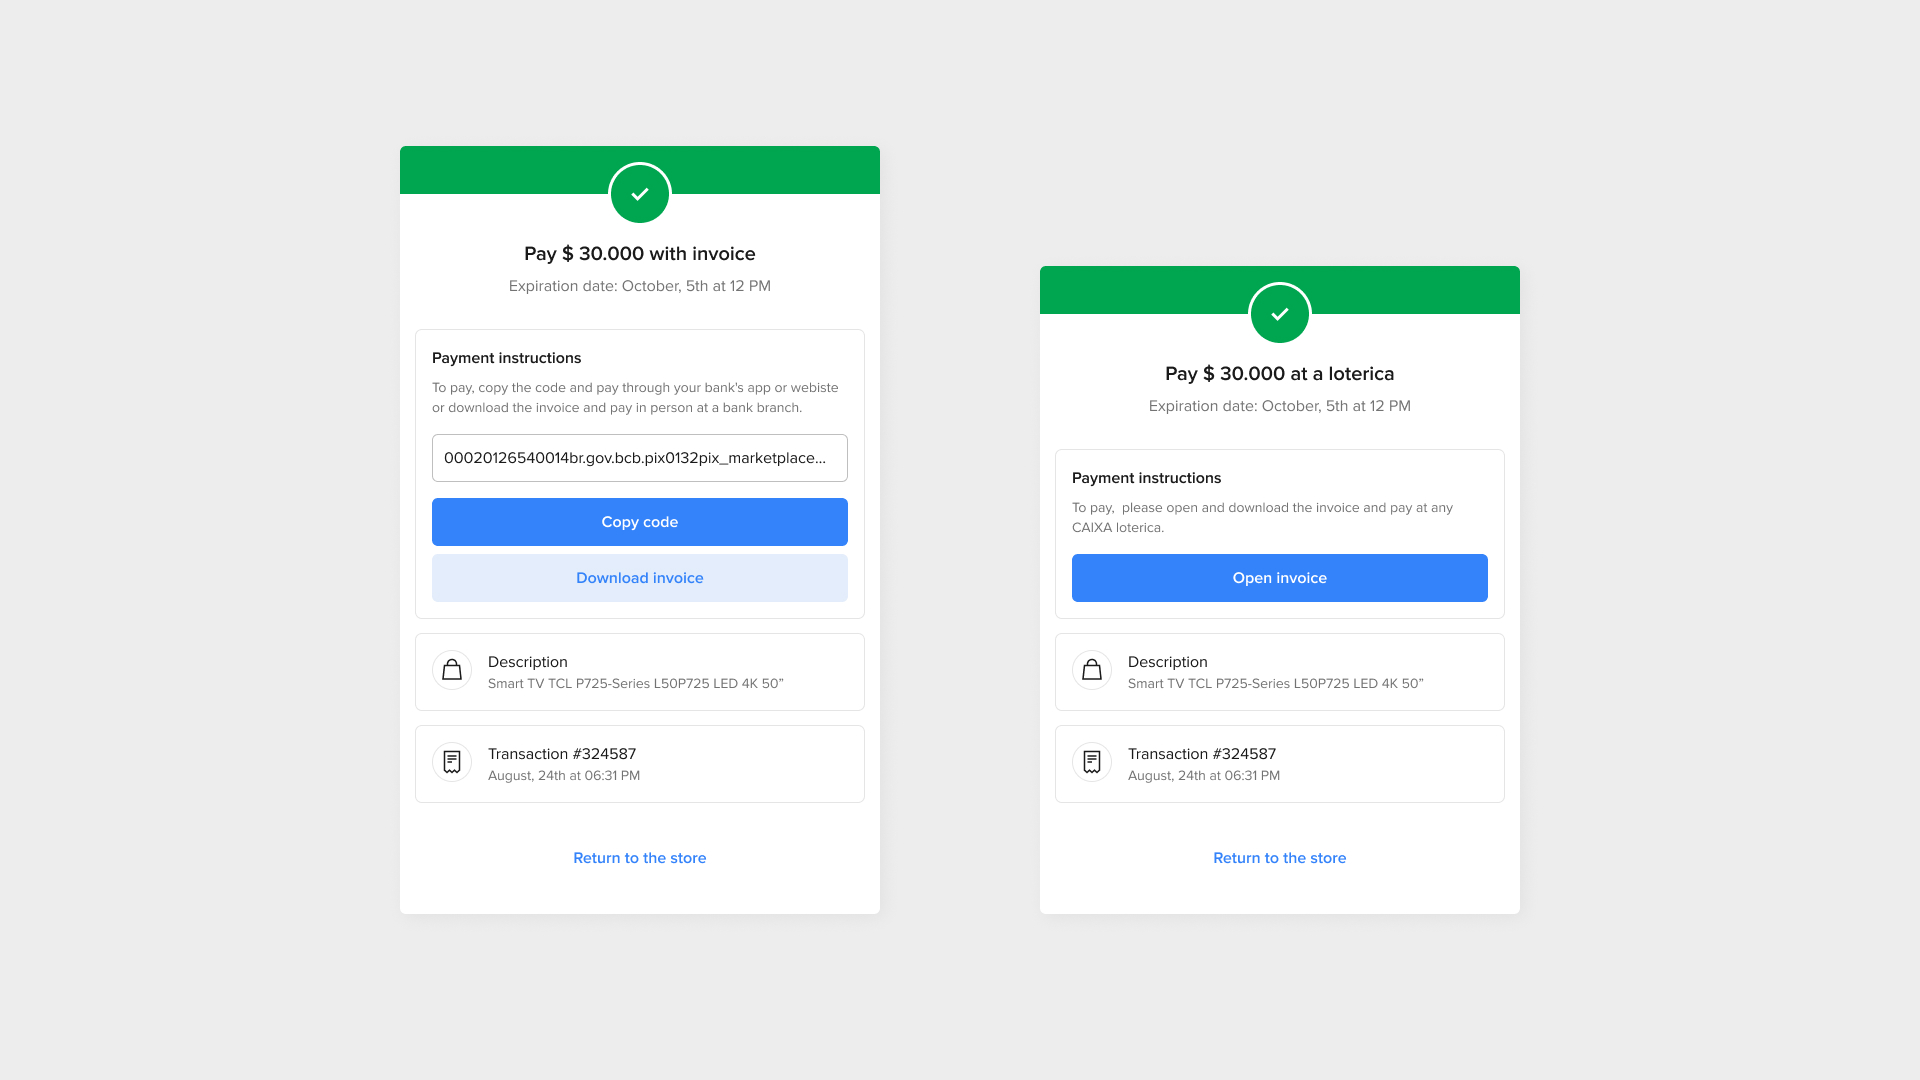
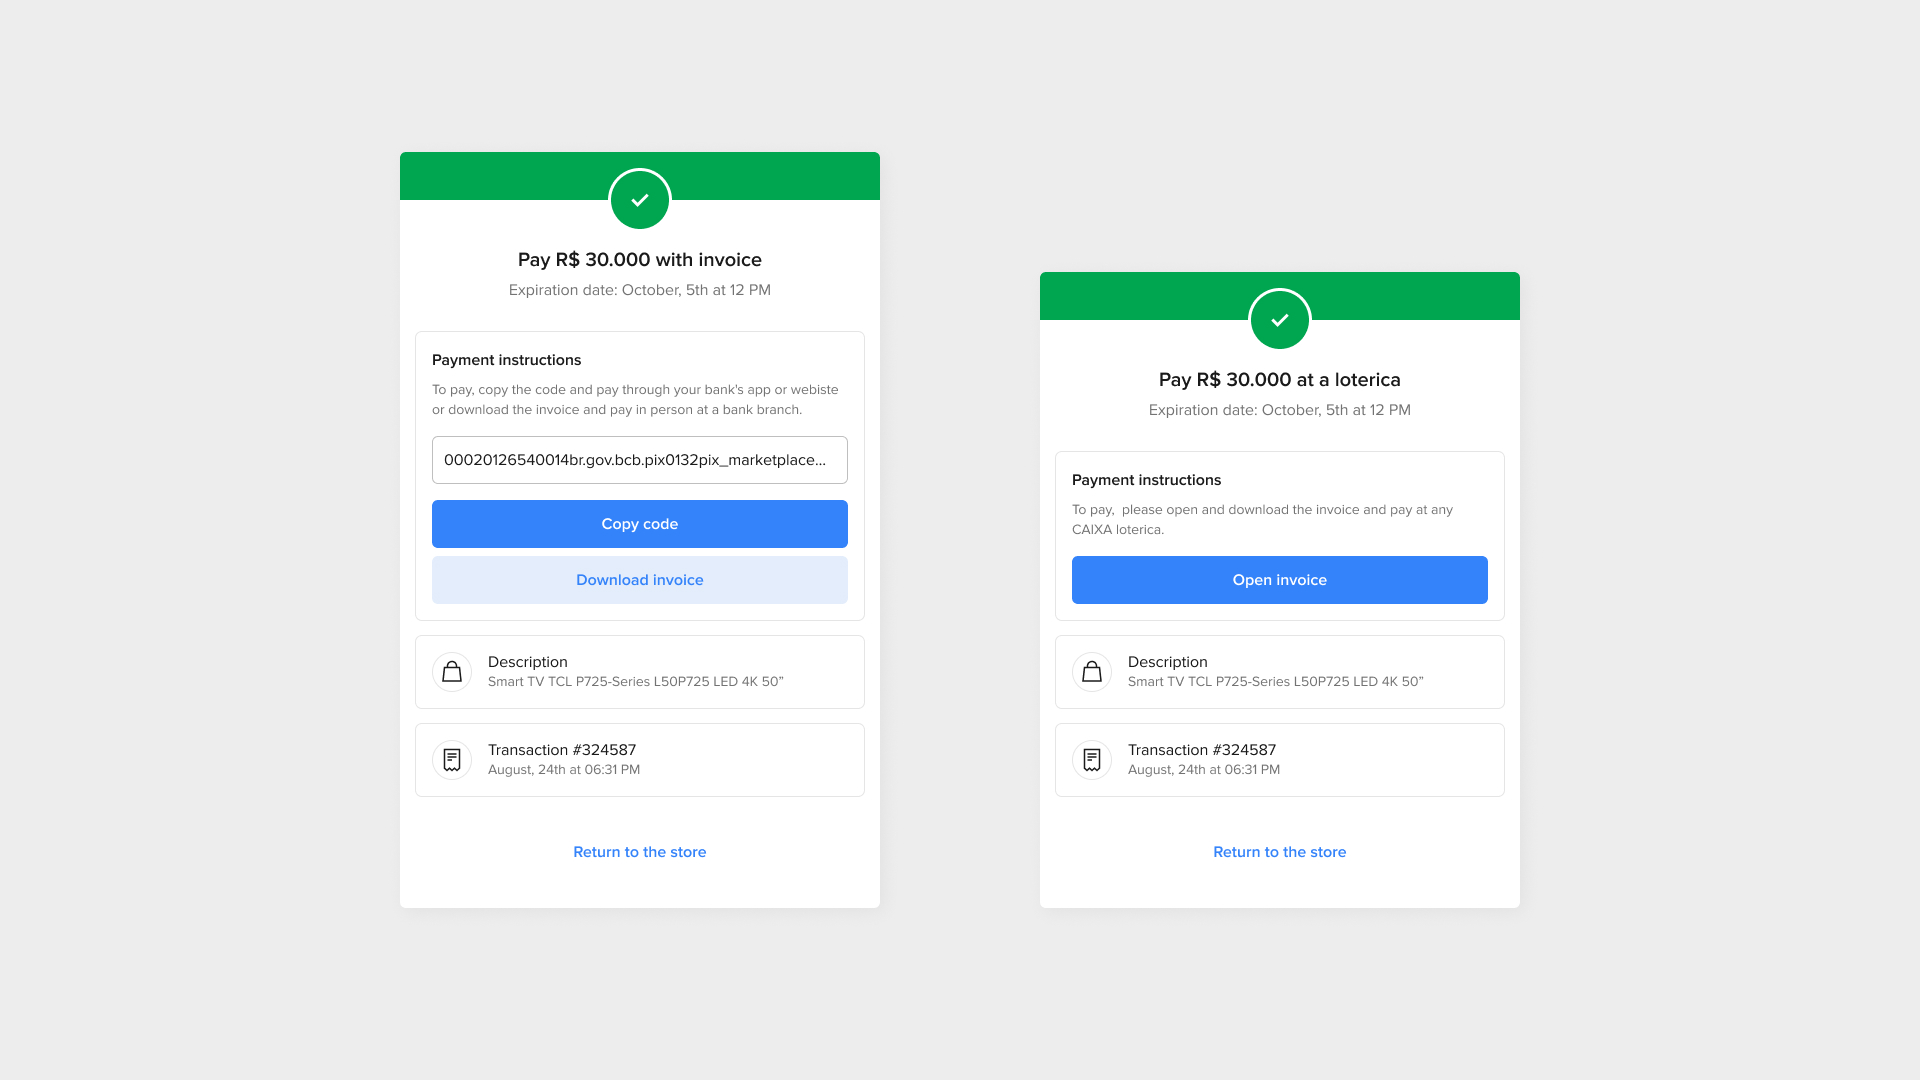
2

diff --git a/guides/checkout-bricks/payment-brick/payment-submission-other-payment-methods-mlb.en.md b/guides/checkout-bricks/payment-brick/payment-submission-other-payment-methods-mlb.en.md
@@ -273,7 +273,7 @@ After the payment creation in the backend using the Mercado Pago SDK, use the **
 
 In addition to displaying the payment status, Status Screen Brick will also display the barcode to copy and paste or scan in order for the buyer to pay. Learn how simple it is to integrate [click here](/developers/en/docs/checkout-bricks/status-screen-brick/introduction).
 
-![payment-submission-other-payment-methods-status-mlb](checkout-bricks/payment-submission-other-payment-methods-status-mlb-en.jpg)
+![payment-submission-other-payment-methods-status-mlb](/images/checkout-bricks/payment-submission-other-payment-methods-status-mlb-en.jpg)
 
 > NOTE
 >

diff --git a/guides/checkout-bricks/status-screen-brick/hide-processing-details.en.md b/guides/checkout-bricks/status-screen-brick/hide-processing-details.en.md
@@ -45,7 +45,7 @@ const customization = {
 
 ------------
 ----[mlb]----
-![status-screen-brick-hide-processing-details](/images/checkout-bricks/status-screen-brick-hide-processing-details-mlb-en-rebranding.jpg)
+![status-screen-brick-hide-processing-details](checkout-bricks/status-screen-brick-hide-processing-details-mlb-en.jpg)
 
 ------------
 ----[mla]----

diff --git a/guides/checkout-bricks/how-to-integrate-3ds.es.md b/guides/checkout-bricks/how-to-integrate-3ds.es.md
@@ -122,7 +122,7 @@ El usuario debe responder al _Challenge_ para que la transición se valide corre
 ------------
 ----[mlb]----
 
-![status-screen-brick-layout](/images/checkout-bricks/status-screen-brick-layout-mlb-es-rebranding.jpg)
+![status-screen-brick-layout](/images/checkout-bricks/status-screen-brick-layout-mlb-es.jpg)
 
 ------------
 ----[mpe]----
